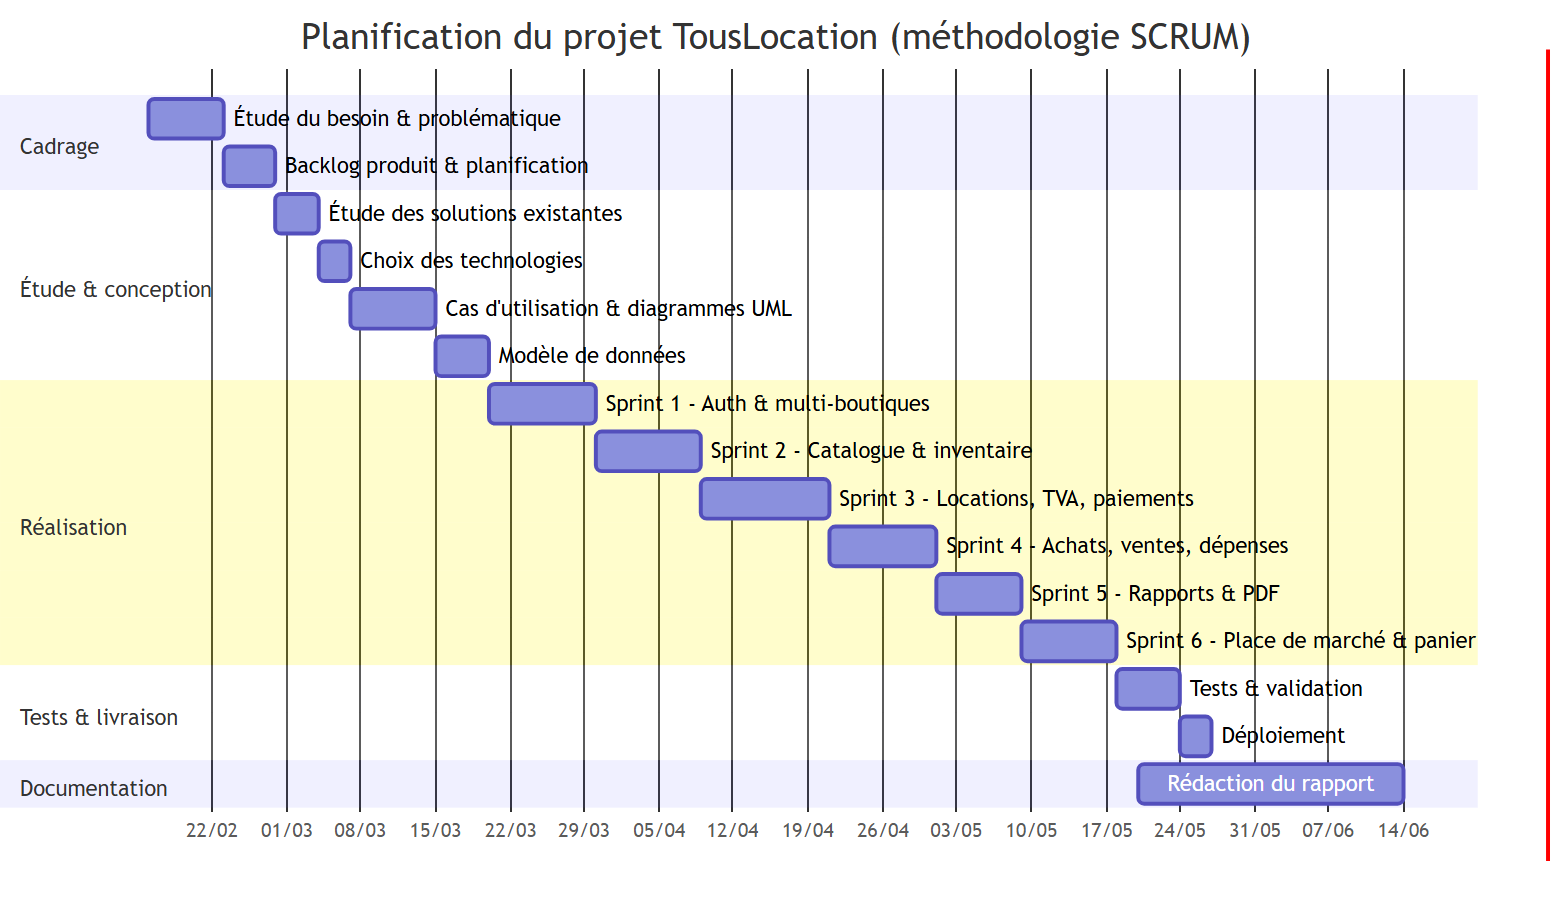
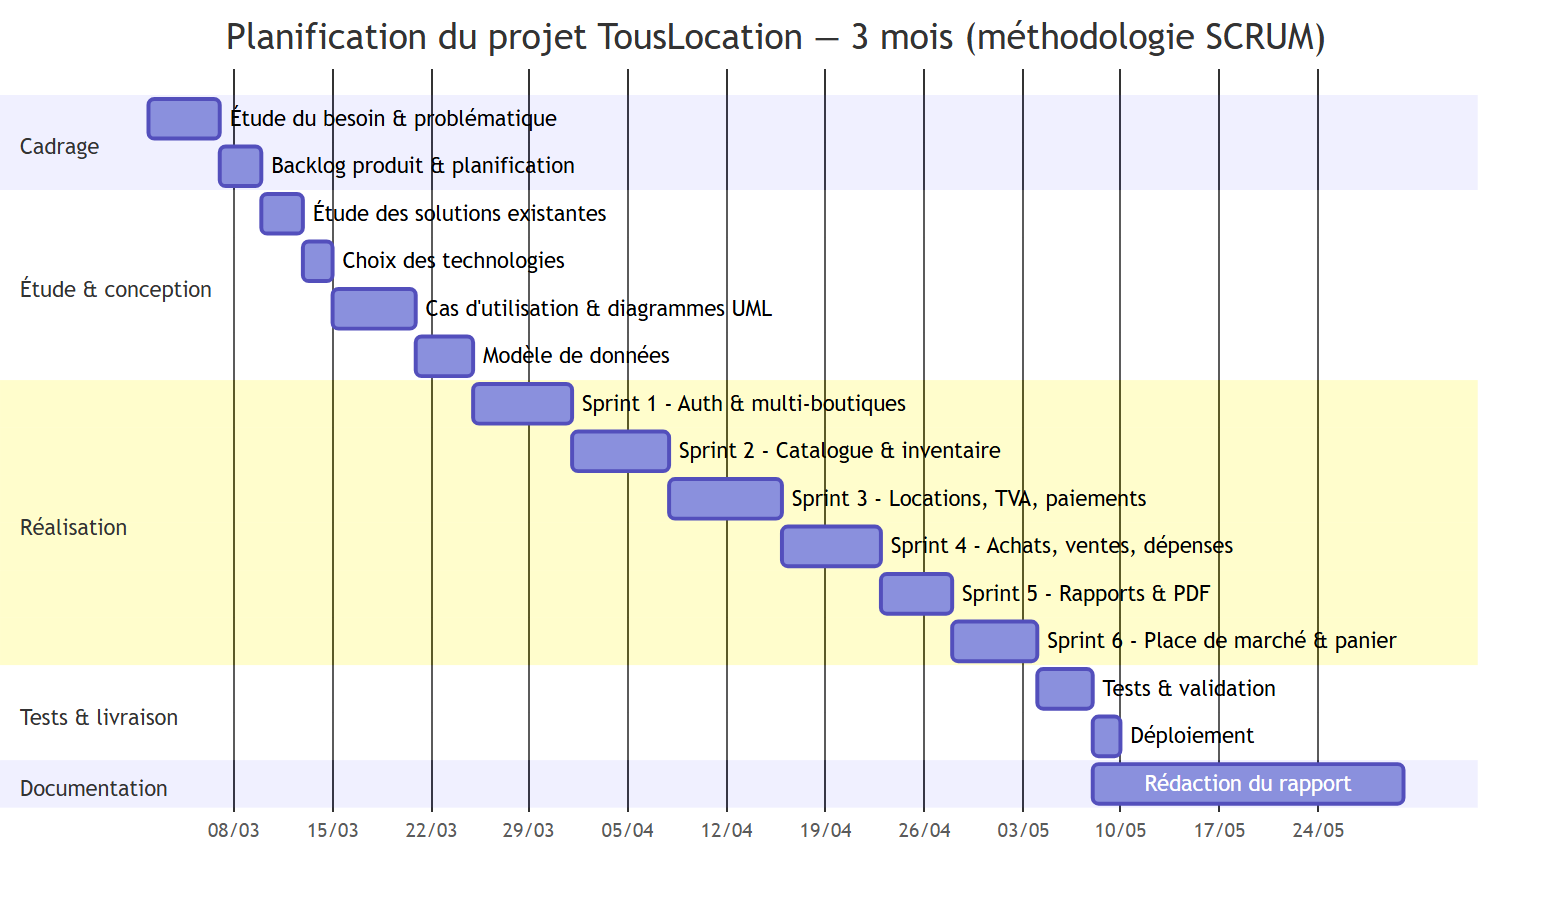
Rapport PFE : figures et tableaux non coupés entre les pages + planning 3 mois
- CSS d'impression : figures encapsulées (figure.fig) avec break-inside:avoid
  et hauteur max (225mm) pour qu'aucun diagramme ne dépasse une page ;
  lignes de tableau insécables (break-inside:avoid) et en-tête répété
  (thead table-header-group). Vérifié : le diagramme de cas d'utilisation,
  auparavant coupé, tient désormais sur une seule page.
- Planification ramenée à une durée de ~3 mois (mars–mai 2026) :
  gantt.mmd / images/gantt.png régénérés, mention ajoutée au §1.5.
- PDF régénéré (33 pages).

Changed region(s): [[0.125, 0.0913, 0.9375, 0.913], [0.125, 0.0, 0.8438, 0.0609]]

diff --git a/docs/RAPPORT-PFE.md b/docs/RAPPORT-PFE.md
@@ -28,6 +28,16 @@ css: |
   .cover .yr { margin-top: 36px; font-size: 14px; font-weight: bold; }
   .quote-ded { font-style: italic; text-align: center; line-height: 2; font-size: 14px; }
   .view { background: #f7faff; border: 1px solid #e1ecfb; border-radius: 8px; padding: 8px 12px; margin: 8px 0; }
+  /* Eviter les coupures de figures et de tableaux entre les pages */
+  figure.fig { break-inside: avoid; page-break-inside: avoid; margin: 14px 0; text-align: center; }
+  figure.fig img { margin: 0 auto; max-height: 225mm; width: auto; }
+  figure.fig .cap { margin-top: 4px; }
+  img { break-inside: avoid; page-break-inside: avoid; max-height: 225mm; }
+  .cap { break-before: avoid; page-break-before: avoid; }
+  table { page-break-inside: auto; }
+  tr, th, td { break-inside: avoid; page-break-inside: avoid; }
+  thead { display: table-header-group; }
+  h2, h3, h4 { break-after: avoid; page-break-after: avoid; }
 ---
 
 <div class="cover">
@@ -369,11 +379,15 @@ priorisées et réparties sur les sprints.
 | US-13 | En tant que **client**, je veux ajouter plusieurs articles d'une même boutique à un panier afin de commander en une seule location. | Haute | Sprint 5 |
 | US-14 | En tant qu'**utilisateur**, je veux une interface bilingue (FR/AR) et responsive afin d'utiliser l'application confortablement. | Moyenne | Sprint 6 |
 
-Le **diagramme de Gantt** ci-dessous représente l'ordonnancement de ces sprints dans le
-temps, depuis le cadrage et l'analyse jusqu'aux tests et à la finalisation.
+Le projet a été mené **sur une durée d'environ trois mois** (de mars à mai 2026),
+organisée en six sprints précédés d'une phase de cadrage et d'analyse, et suivis d'une
+phase de tests, de déploiement et de rédaction. Le **diagramme de Gantt** ci-dessous
+représente l'ordonnancement de ces étapes dans le temps.
 
-![Diagramme de Gantt](images/gantt.png)
+<figure class="fig">
+<img src="images/gantt.png" alt="Diagramme de Gantt" />
 <p class="cap">Figure 1 — Diagramme de Gantt — planification des sprints</p>
+</figure>
 
 ### Conclusion du chapitre
 
@@ -493,8 +507,10 @@ Le système distingue quatre acteurs, dont les droits sont résumés ci-dessous.
 Le diagramme suivant synthétise les interactions entre les acteurs et les
 fonctionnalités du système.
 
-![Cas d'utilisation](images/use-cases.png)
+<figure class="fig">
+<img src="images/use-cases.png" alt="Cas d'utilisation" />
 <p class="cap">Figure 2 — Diagramme de cas d'utilisation</p>
+</figure>
 
 Pour préciser le fonctionnement attendu, deux cas d'utilisation majeurs sont décrits
 textuellement ci-dessous.
@@ -543,8 +559,10 @@ textuellement ci-dessous.
 Le diagramme de séquence ci-dessous illustre le flux complet de **création d'une
 location** depuis le panier client.
 
-![Séquence — création d'une location](images/sequence-location.png)
+<figure class="fig">
+<img src="images/sequence-location.png" alt="Séquence — création d'une location" />
 <p class="cap">Figure 3 — Diagramme de séquence — création d'une location</p>
+</figure>
 
 Le flux se déroule ainsi : depuis le panier React, le client confirme la location ; la
 requête `POST /locations` (avec jeton Bearer) traverse les routes puis le middleware
@@ -559,8 +577,10 @@ location et de ses montants, et l'interface affiche une confirmation à l'utilis
 Le diagramme de classes ci-dessous modélise les entités métier (modèles Eloquent) et
 leurs associations.
 
-![Diagramme de classes UML](images/uml-class.png)
+<figure class="fig">
+<img src="images/uml-class.png" alt="Diagramme de classes UML" />
 <p class="cap">Figure 4 — Diagramme de classes (UML)</p>
+</figure>
 
 Les principales associations sont les suivantes : un **Utilisateur** (qui représente aussi
 une boutique pour les gérants) possède ses **Matériels** et est rattaché à des référentiels
@@ -576,8 +596,10 @@ sont dérivés des paiements de chaque opération.
 
 Le modèle physique de données adopte une **nomenclature 100 % française**.
 
-![Modèle physique de données](images/database-schema.png)
+<figure class="fig">
+<img src="images/database-schema.png" alt="Modèle physique de données" />
 <p class="cap">Figure 5 — Modèle physique de données</p>
+</figure>
 
 Les tables métier sont : `utilisateurs`, `materiels`, `locations`, `lignes_location`,
 `paiements`, `achats`, `lignes_achat`, `paiements_achat`, `ventes`, `lignes_vente`,
@@ -635,8 +657,10 @@ L'application suit une architecture **découplée** : une **SPA React** dialogue
 côté serveur, les contrôleurs orchestrent la logique, l'ORM **Eloquent** accède à la base
 **MySQL**, et des gabarits Blade génèrent les documents PDF.
 
-![Architecture MVC](images/architecture-mvc.png)
+<figure class="fig">
+<img src="images/architecture-mvc.png" alt="Architecture MVC" />
 <p class="cap">Figure 6 — Architecture technique (MVC) de l'application</p>
+</figure>
 
 Le frontend joue le rôle de **Vue** principale ; il consomme le **Contrôleur** (API REST)
 qui pilote le **Modèle** (Eloquent). Chaque requête métier traverse le middleware
@@ -723,20 +747,26 @@ et « Mes locations »).
 L'espace public accueille les visiteurs, présente les boutiques et permet la connexion et
 l'inscription des clients.
 
-![Page d'accueil](images/screens/01-accueil.png)
+<figure class="fig">
+<img src="images/screens/01-accueil.png" alt="Page d'accueil" />
 <p class="cap">Figure 7 — Page d'accueil (espace public)</p>
+</figure>
 
 La **page d'accueil** présente l'application et oriente le visiteur vers la connexion, la
 vitrine des boutiques ou l'inscription, avec un sélecteur de langue (FR/AR).
 
-![Page de connexion](images/screens/02-connexion.png)
+<figure class="fig">
+<img src="images/screens/02-connexion.png" alt="Page de connexion" />
 <p class="cap">Figure 8 — Page de connexion</p>
+</figure>
 
 La **page de connexion** authentifie l'utilisateur : à la saisie de l'e-mail et du mot de
 passe, l'application reçoit un jeton et redirige vers l'espace correspondant au rôle.
 
-![Boutiques publiques](images/screens/03-boutiques.png)
+<figure class="fig">
+<img src="images/screens/03-boutiques.png" alt="Boutiques publiques" />
 <p class="cap">Figure 9 — Vitrine des boutiques publiques</p>
+</figure>
 
 La **vitrine des boutiques** liste les boutiques disponibles et permet d'accéder à leur
 catalogue avant même de s'inscrire.
@@ -745,45 +775,59 @@ catalogue avant même de s'inscrire.
 
 L'espace staff regroupe les écrans de gestion quotidienne de la boutique.
 
-![Tableau de bord](images/screens/04-tableau-bord.png)
+<figure class="fig">
+<img src="images/screens/04-tableau-bord.png" alt="Tableau de bord" />
 <p class="cap">Figure 10 — Tableau de bord (espace staff)</p>
+</figure>
 
 Le **tableau de bord** affiche les indicateurs clés (revenus, locations, stock) et un
 suivi visuel des locations par statut, point d'entrée de la gestion.
 
-![Catalogue du matériel](images/screens/05-materiels.png)
+<figure class="fig">
+<img src="images/screens/05-materiels.png" alt="Catalogue du matériel" />
 <p class="cap">Figure 11 — Catalogue du matériel</p>
+</figure>
 
 L'écran **Matériel** permet la gestion complète du catalogue (CRUD, images, catégories,
 marques, unités) ainsi que la consultation de la disponibilité.
 
-![Gestion des locations](images/screens/06-locations.png)
+<figure class="fig">
+<img src="images/screens/06-locations.png" alt="Gestion des locations" />
 <p class="cap">Figure 12 — Gestion des locations</p>
+</figure>
 
 L'écran **Locations** orchestre la réservation multi-articles, le contrôle de
 disponibilité, le calcul de la TVA, le suivi des paiements partiels et la génération de la
 facture PDF.
 
-![Gestion des achats](images/screens/07-achats.png)
+<figure class="fig">
+<img src="images/screens/07-achats.png" alt="Gestion des achats" />
 <p class="cap">Figure 13 — Gestion des achats</p>
+</figure>
 
 L'écran **Achats** gère les commandes auprès des fournisseurs : à la réception, le stock
 est alimenté et les encaissements partiels sont suivis.
 
-![Gestion des ventes](images/screens/08-ventes.png)
+<figure class="fig">
+<img src="images/screens/08-ventes.png" alt="Gestion des ventes" />
 <p class="cap">Figure 14 — Gestion des ventes</p>
+</figure>
 
 L'écran **Ventes** enregistre les ventes de matériel avec décrément du stock, suivi des
 encaissements et génération d'un reçu PDF.
 
-![Rapports et statistiques](images/screens/09-rapports.png)
+<figure class="fig">
+<img src="images/screens/09-rapports.png" alt="Rapports et statistiques" />
 <p class="cap">Figure 15 — Rapports et statistiques</p>
+</figure>
 
 L'écran **Rapports** restitue, sur une période choisie, le bénéfice (revenus − coûts), le
 chiffre d'affaires, l'encaissé / le reste à encaisser et la répartition des locations.
 
-![Paramètres](images/screens/10-parametres.png)
+<figure class="fig">
+<img src="images/screens/10-parametres.png" alt="Paramètres" />
 <p class="cap">Figure 16 — Paramètres et référentiels</p>
+</figure>
 
 L'écran **Paramètres** centralise la gestion des référentiels (TVA, devises, unités,
 catégories, marques, types de paiement) par onglets.
@@ -792,15 +836,19 @@ catégories, marques, types de paiement) par onglets.
 
 L'espace client expose la place de marché et le suivi des locations du client.
 
-![Place de marché client (panier)](images/screens/11-magasin.png)
+<figure class="fig">
+<img src="images/screens/11-magasin.png" alt="Place de marché client (panier)" />
 <p class="cap">Figure 17 — Place de marché client (panier)</p>
+</figure>
 
 La **place de marché** propose un catalogue multi-boutiques avec recherche et filtre par
 boutique ; le client ajoute plusieurs articles d'une même boutique à son **panier** avant
 de confirmer sa location sur une période commune.
 
-![Mes locations (client)](images/screens/12-mes-locations.png)
+<figure class="fig">
+<img src="images/screens/12-mes-locations.png" alt="Mes locations (client)" />
 <p class="cap">Figure 18 — Mes locations (espace client)</p>
+</figure>
 
 L'écran **Mes locations** permet au client de suivre l'état de ses demandes et locations,
 toutes boutiques confondues.